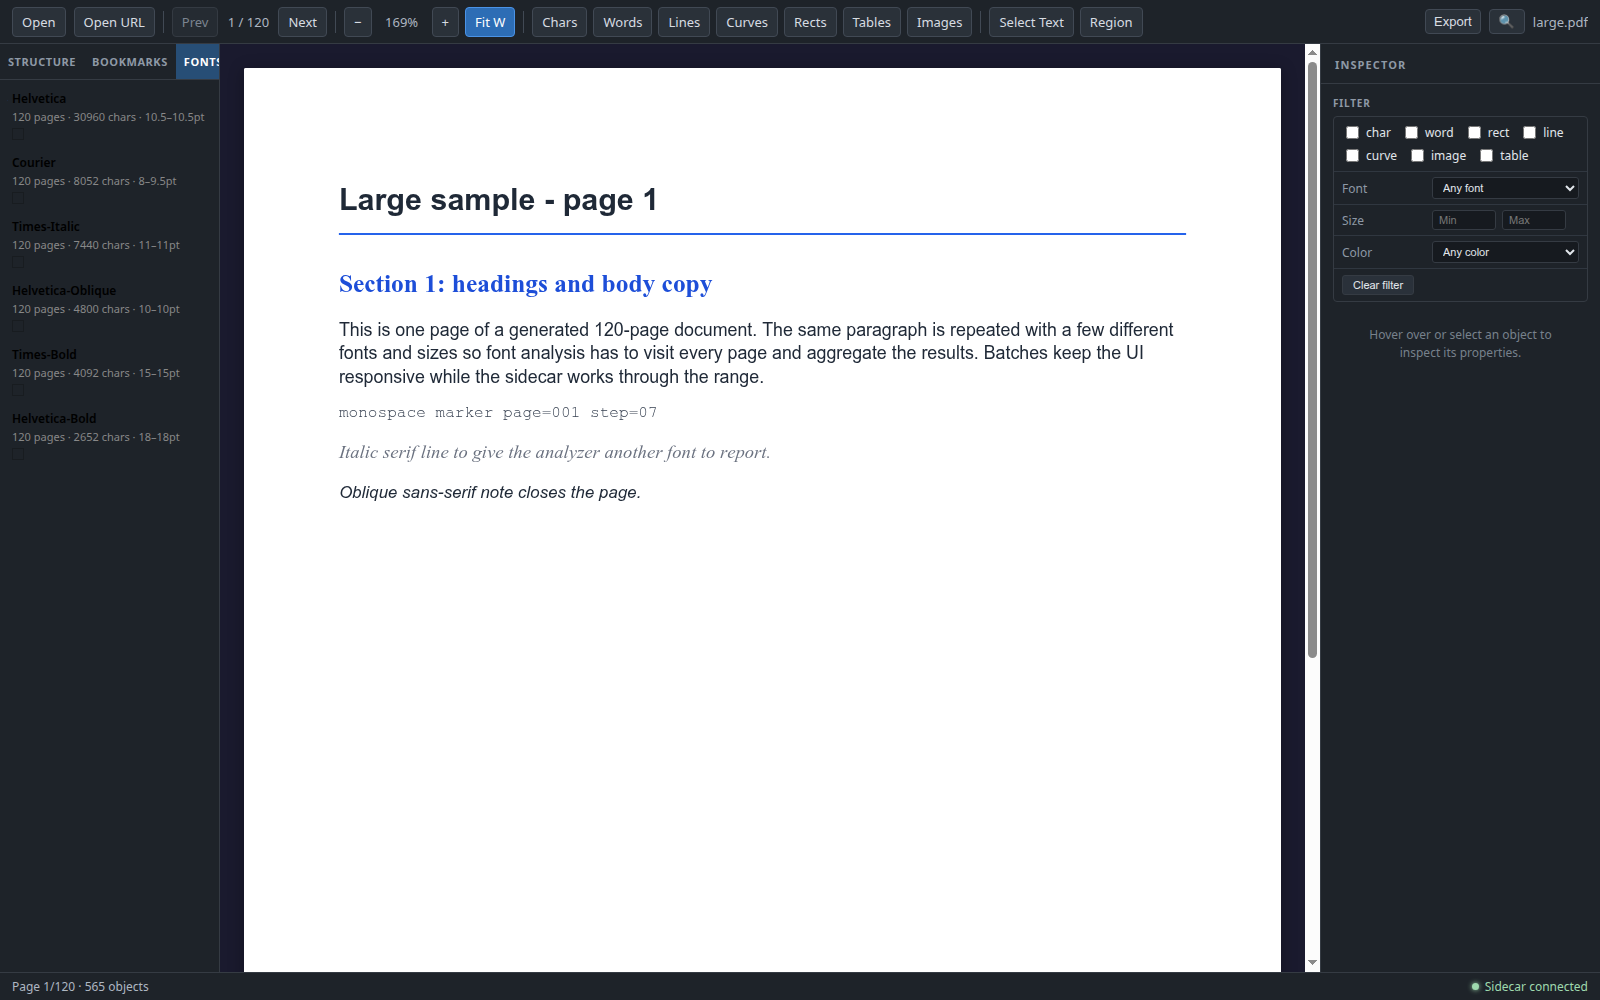
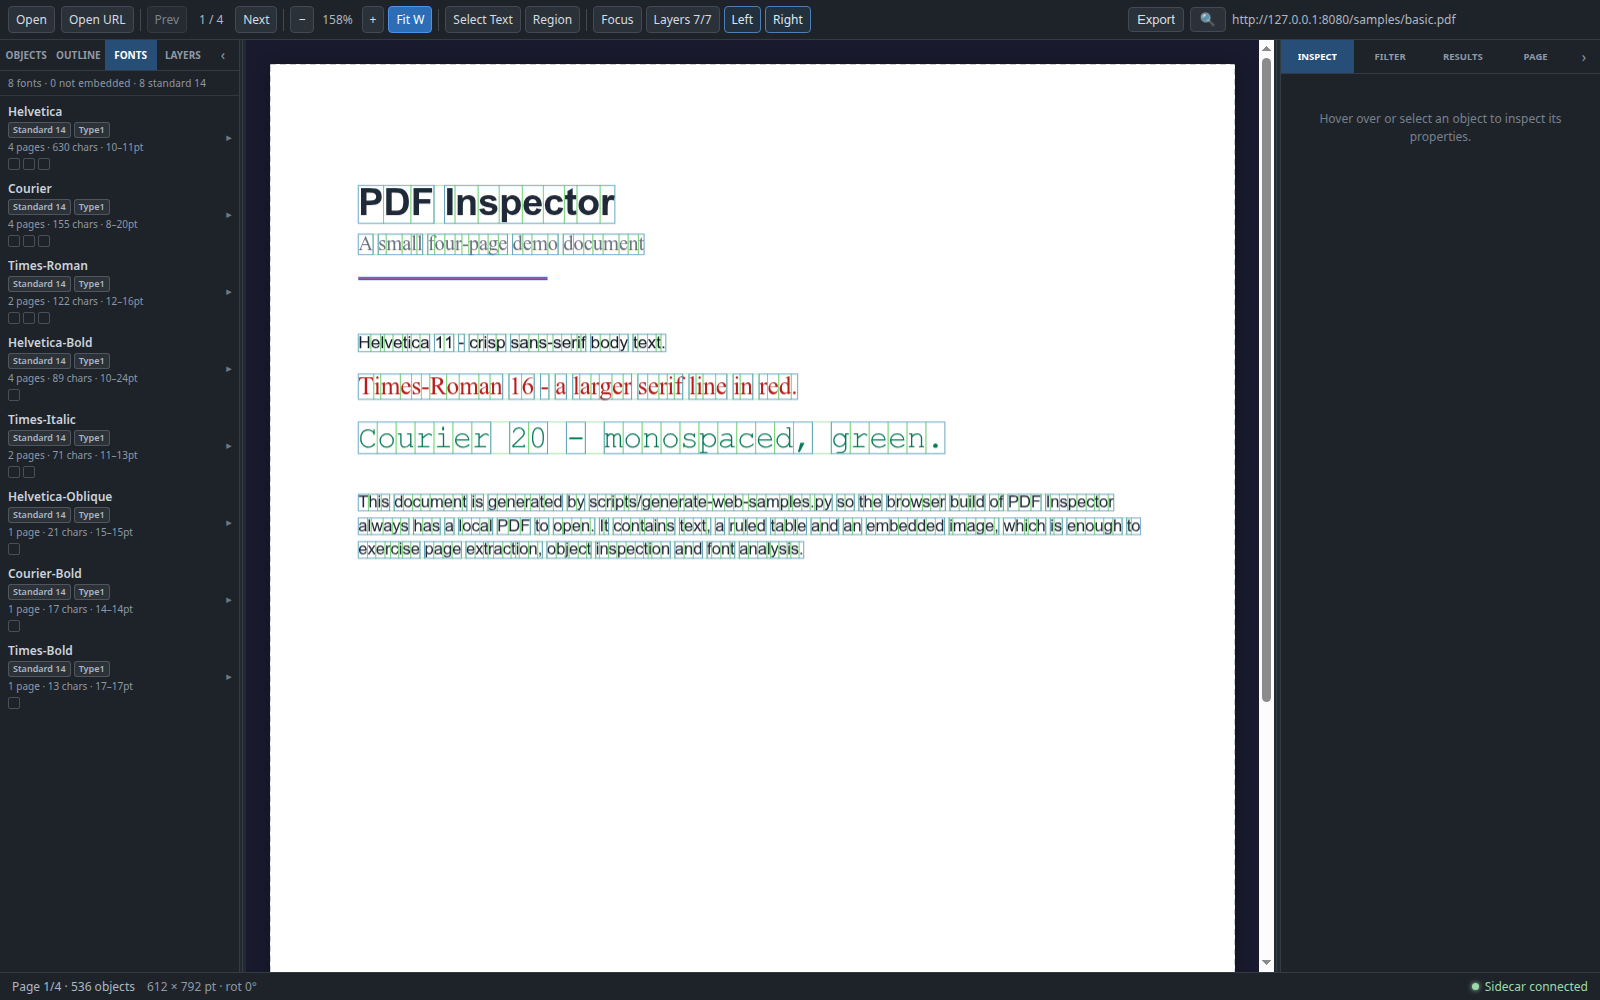
docs: document inspection depth
- Document font embedding status reporting in the Fonts tab.
- Document table cell inspection with bounding boxes and merge markers.
- Document the Page tab, page geometry and point/millimetre rulers.
- List the new optional JSON metadata fields and known limitations.
- Add screenshots for fonts, table cells and page geometry.

diff --git a/README.md b/README.md
@@ -9,9 +9,11 @@
 |  |  |
 | :---: | :---: |
 | ![工作区总览：Objects / Outline / Fonts / Layers 标签与可调整面板](docs/images/overview.png) | ![对象检查](docs/images/inspector.png) |
-| ![字体分析](docs/images/fonts.png) | ![URL 打开](docs/images/url-dialog.png) |
+| ![字体分析：嵌入状态徽标与 Standard 14 汇总](docs/images/fonts.png) | ![URL 打开](docs/images/url-dialog.png) |
 | ![图层面板](docs/images/layers.png) | **Layers**<br>七类对象开关、计数、All/None、Solo 与透明度。 |
 | ![按元素类型导出](docs/images/export-dialog.png) | **按元素类型导出**<br>选择当前页/整档、JSON/CSV 与要包含的元素类型；未勾选的类型不会写入文件。 |
+| ![表格单元格网格与选中单元格](docs/images/table-cells.png) | **表格单元格**<br>选中表格后显示单元格网格、合并/缺失标记与选中单元格的 BBox；悬停或点击单元格时画布同步高亮。 |
+| ![页面几何：五个页面框与标尺](docs/images/page-geometry.png) | **页面几何**<br>`Page` 标签页列出 MediaBox / CropBox / TrimBox / BleedBox / ArtBox，可切换 pt/mm 并显示标尺。 |
 
 *截图来自 Web 构建；桌面端使用同一套 React UI，界面与功能一致。*
 
@@ -36,7 +38,7 @@
 - 左右面板可通过分隔条拖拽调整宽度，并可折叠；工具栏的 Left / Right 按钮与面板内的折叠按钮保持同步。
 - 面板收起后，画布边缘会出现 `Objects` / `Inspector` 恢复条，点击即可重新打开；专注模式下左上角显示 `Show panels` 恢复按钮。
 - `F` 或工具栏 Focus 进入专注模式，隐藏左右面板、只保留画布；再次按 `F` 或点击 Focus 退出。
-- Inspector 面板分为 `Inspect / Filter / Results` 三个标签页：查看对象属性、组合筛选条件、管理筛选或框选结果并导出子集。
+- Inspector 面板分为 `Inspect / Filter / Results / Page` 四个标签页：查看对象属性、组合筛选条件、管理筛选或框选结果、查看页面几何。
 - 面板宽度、折叠状态、Focus 模式、当前标签页与叠加层透明度会保存在 localStorage，下次启动自动恢复。
 
 ### 搜索与导出
@@ -44,6 +46,7 @@
 - `Ctrl/Cmd+F` 跨页全文搜索，逐条导航并高亮匹配位置。
 - 导出当前页或整份文档，格式为 JSON 或 CSV；导出时可勾选要包含的元素类型（char / word / line / curve / rect / table / image）。桌面端使用原生保存对话框，Web 端触发浏览器下载。
 - CSV 按对象类型分段，便于在表格工具中继续分析。
+- JSON 导出新增可选字段：`metadata.fontInfo`（字体嵌入详情）、每页的 `page.boxes` / `page.rotation`，以及表格的 `table.cellBoxes` / `table.cellSpans`；CSV 各段的列定义保持不变。
 
 ### 过滤与叠加层
 
@@ -55,9 +58,24 @@
 ### 字体分析
 
 - 统计整份文档的字体使用情况：页数、字符数、字号范围、颜色。
+- 每个字体显示嵌入状态徽标：`Embedded` / `Standard 14` / `Not embedded` / `Unknown`，并区分子集字体（`Subset`）与字体子类型（如 `Type1`）。
+- 展开字体条目可查看细节：嵌入状态、Subtype、是否子集、Encoding、ToUnicode 与字体文件类型。
+- 顶部汇总分别统计未嵌入字体与标准 14 字体（例如 `8 fonts · 0 not embedded · 8 standard 14`），不会把 Standard 14 当作缺失字体。
 - 按每 10 页一批顺序分析，并实时显示进度。
 - 分批处理让页面提取有机会穿插执行，分析长文档时界面保持可用。
 - 点击字体条目跳转到首个使用页，并通过筛选高亮该字体的对象。
+
+### 表格单元格
+
+- 选中表格对象后，Inspector → `Inspect` 的 Table 区显示与 `cells` 对齐的单元格网格；合并覆盖的槽位显示 `▨`，缺少几何数据的槽位显示 `∅`。
+- 悬停单元格可预览，点击可选中并查看行、列、Span、文本、BBox 与尺寸；画布叠加层同步绘制该表格的单元格网格，并高亮悬停或选中的单元格。
+- 表格文本仍按 `cells` 矩阵导出，CSV 表格段的列（`page, table_index, row, col, text`）保持不变。
+
+### 页面几何
+
+- Inspector 新增 `Page` 标签页：显示当前页尺寸与 `/Rotate` 旋转角，并可在 pt 与 mm 之间切换。
+- 列出 MediaBox、CropBox、TrimBox、BleedBox、ArtBox 的原始坐标；每个框可独立显示或隐藏，画布以不同颜色和虚线样式叠加。
+- 画布可显示页面顶部与左侧标尺，单位跟随 pt/mm；状态栏显示页面尺寸、旋转角以及光标相对 MediaBox 原点的坐标（与 Inspector 的对象坐标一致）。
 
 ### 打开方式
 
@@ -140,11 +158,12 @@ python scripts/generate-web-samples.py
 
 1. **打开文档**：点击 Open 选择本地 PDF，或点击 Open URL 输入 `http(s)` 地址。
 2. **浏览结构**：在左侧 `Objects` 标签页展开/折叠页面节点，或切换到 `Outline` 按书签跳转；也可用工具栏的 Prev/Next 翻页。
-3. **检查对象**：在画布上悬停查看轮廓，点击后在右侧 Inspector 的 `Inspect` 标签页查看坐标、字体、颜色与原始数据。
+3. **检查对象**：在画布上悬停查看轮廓，点击后在右侧 Inspector 的 `Inspect` 标签页查看坐标、字体、颜色与原始数据。选中表格时会显示单元格网格，可悬停预览、点击选中单元格并查看其 Span 与 BBox。
 4. **筛选对象**：在 Inspector → `Filter` 中按字体/字号/颜色/类型筛选，或切到 `R` 模式拖拽框选区域，再在 `Results` 中选择相交/包含匹配。
-5. **字体分析**：切换到左侧 `Fonts` 标签页开始分析，查看进度；点击字体条目跳转到使用页并高亮。
-6. **控制叠加层**：在左侧 `Layers` 标签页开关七类对象、查看当前页计数、使用 Solo 或调整透明度；`F` 可进入专注模式，隐藏左右面板。
-7. **搜索与导出**：`Ctrl/Cmd+F` 搜索；通过 Export 选择当前页/整档、JSON/CSV 与要包含的元素类型。
+5. **字体分析**：切换到左侧 `Fonts` 标签页开始分析，查看进度与嵌入状态徽标；展开条目可看 Encoding、ToUnicode 等细节，点击字体条目跳转到使用页并高亮。
+6. **查看页面几何**：在 Inspector → `Page` 标签页查看页面尺寸、旋转角与五个页面框，切换 pt/mm，并按需开关各框叠加与画布标尺。
+7. **控制叠加层**：在左侧 `Layers` 标签页开关七类对象、查看当前页计数、使用 Solo 或调整透明度；`F` 可进入专注模式，隐藏左右面板。
+8. **搜索与导出**：`Ctrl/Cmd+F` 搜索；通过 Export 选择当前页/整档、JSON/CSV 与要包含的元素类型。
 
 ## 架构
 
@@ -266,6 +285,8 @@ npm run dist:linux       # Linux
 
 - 侧车一次处理一个请求；单批字体分析执行期间，其他解析请求需要等待，批次之间会插入处理。
 - 字体分析按 10 页一批顺序执行，超大文档需要较长时间，但可分页浏览并查看进度。
+- 旋转页面（`/Rotate` 为 90/180/270）仍显示页面框与标尺，但对象叠加层不可用：对象坐标按未旋转页面映射，无法可靠对齐。
+- 当 CropBox 小于 MediaBox 时，页面框与标尺以 MediaBox 作为页面框架，而 PDF.js 按 CropBox 渲染，因此页面与内容边距的视觉表现可能不同。
 - Web 模式同一时间只维护一份“当前文档”，且没有多用户隔离或认证。
 - 临时文件清理为尽力而为，异常退出后可能需要手动清理系统临时目录。
 - Web 模式需先构建 `dist-web` 与 `dist-web-server`；未构建时服务会提示构建后刷新。
